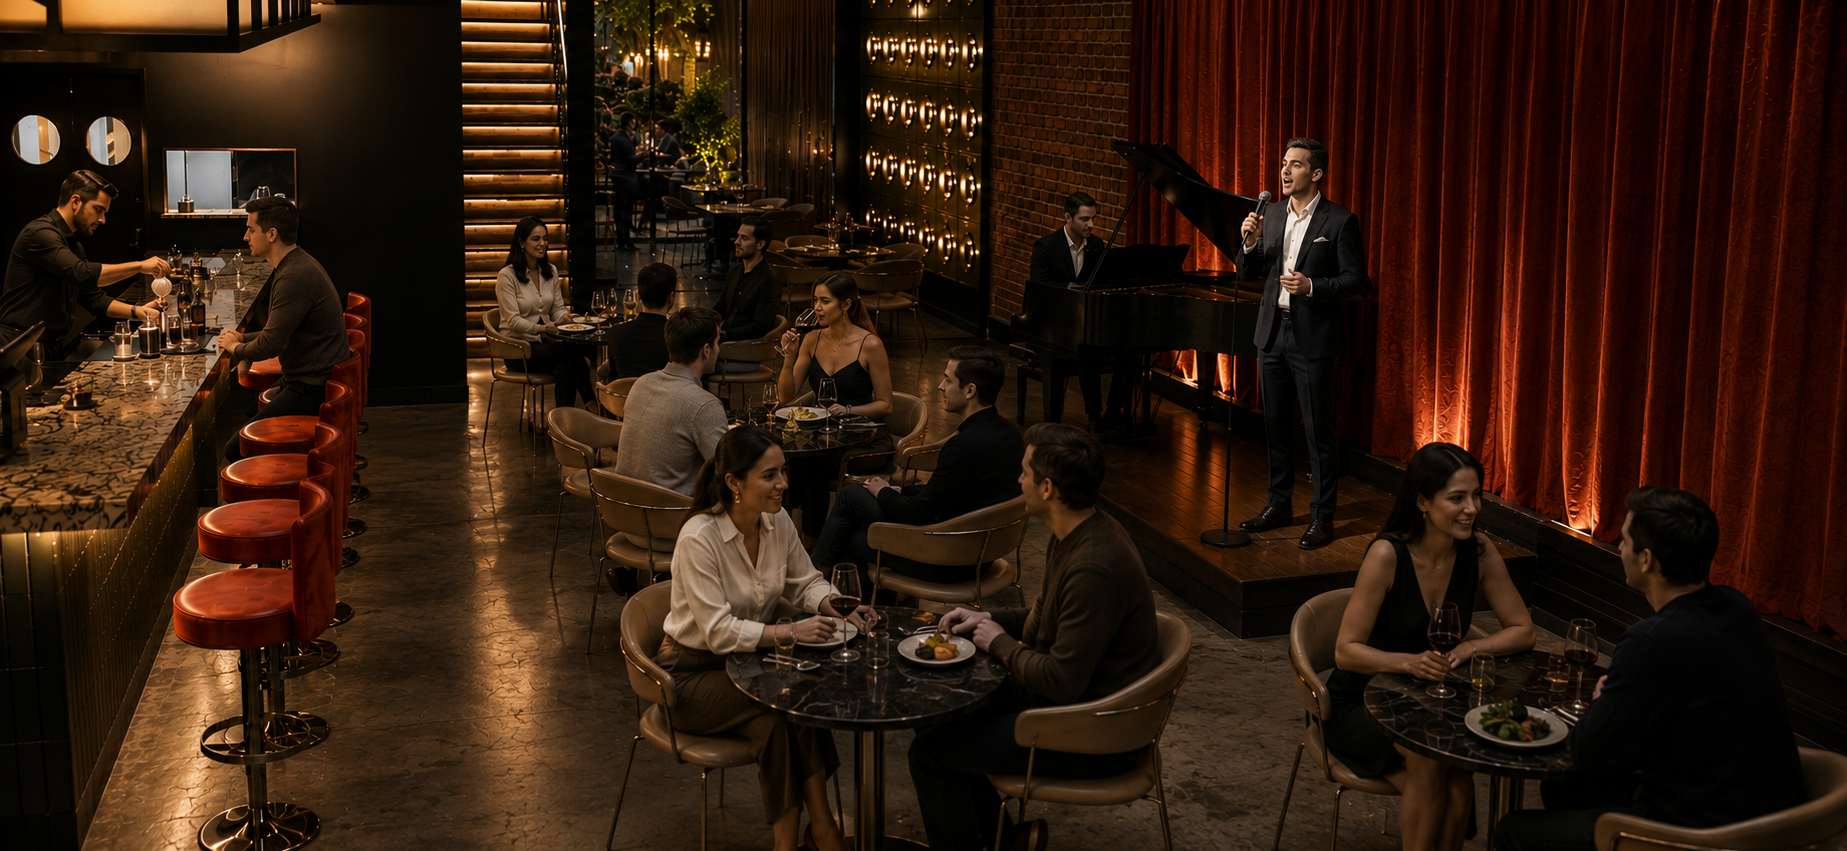
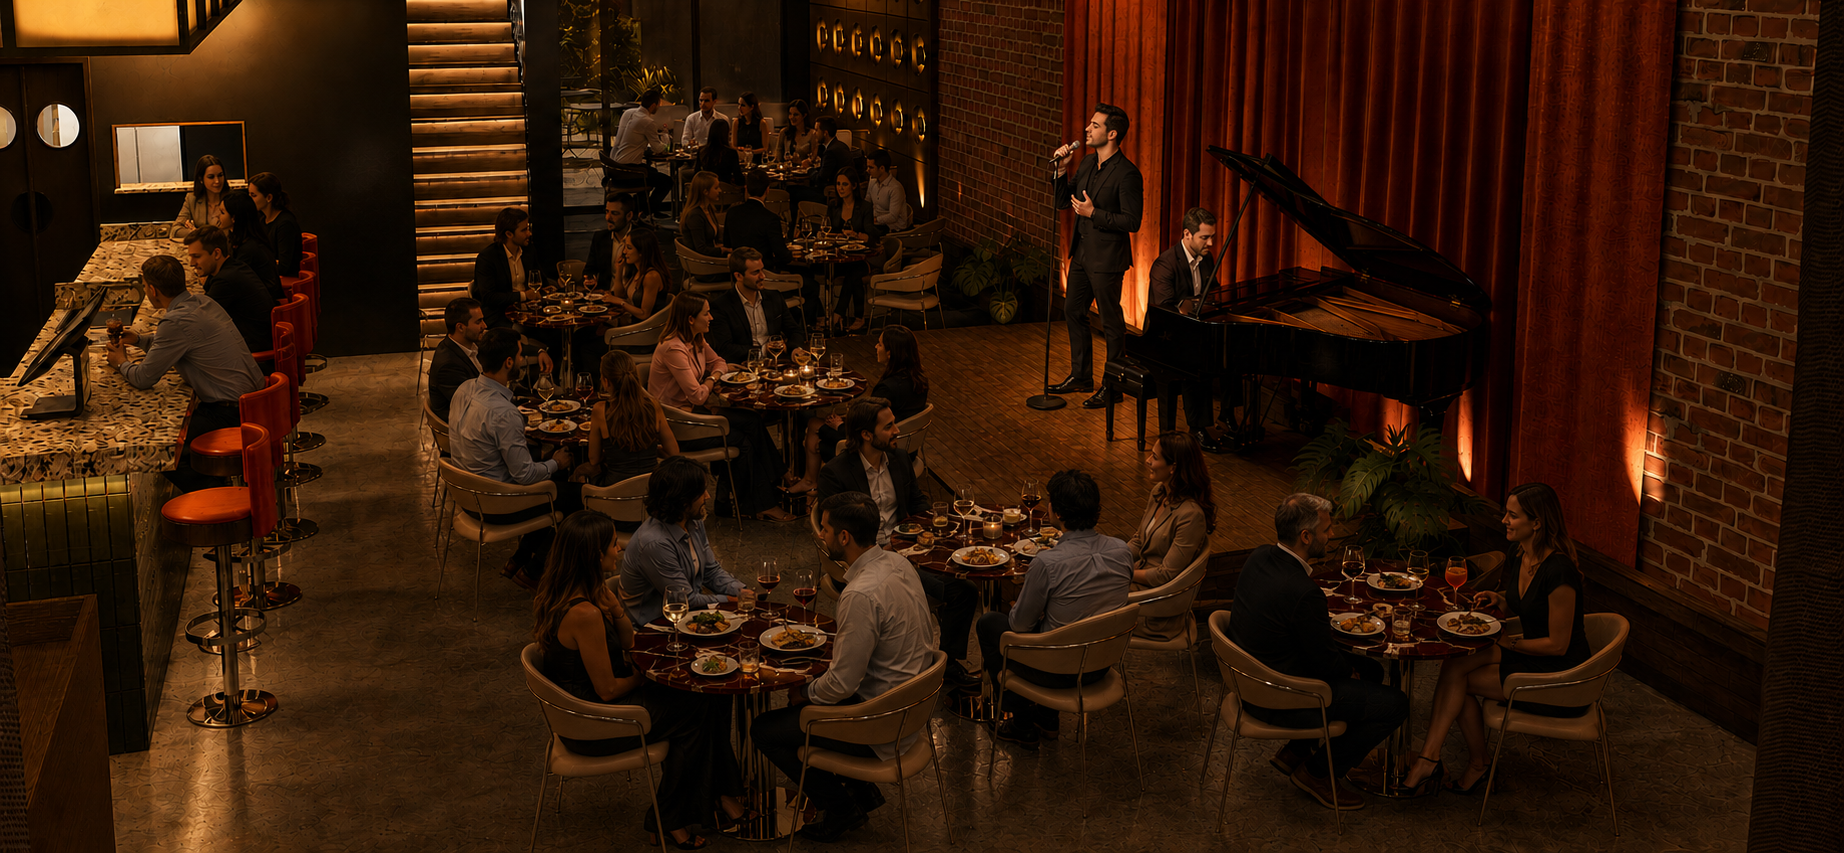
feat: update hero section background with new asset and parallax scroll logic

diff --git a/script.js b/script.js
@@ -31,7 +31,10 @@ document.addEventListener('DOMContentLoaded', () => {
         const heroBottom = heroSection.offsetTop + heroSection.offsetHeight;
         // Only apply while the hero is visible
         if (scrollY <= heroBottom) {
-            heroBgImage.style.transform = `translateY(${scrollY * 0.3}px)`;
+            // Shift the background down slightly on scroll (parallax),
+            // starting from 15% so the singer's head is never clipped
+            const offset = 15 + scrollY * 0.015;
+            heroBgImage.style.backgroundPositionY = `${offset}%`;
         }
         rafParallax = null;
     };
@@ -41,6 +44,7 @@ document.addEventListener('DOMContentLoaded', () => {
             rafParallax = requestAnimationFrame(updateParallax);
         }
     }, { passive: true });
+
 
 
     /* 2. MOBILE NAV MENU TOGGLE */

diff --git a/styles.css b/styles.css
@@ -746,16 +746,14 @@ section {
     height: 100%;
     background-image: url('assets/hero_chatgpt_latest.png?v=3');
     background-size: cover;
-    background-position: center top;
+    background-position: center 15%;
     background-repeat: no-repeat;
-    transform: scale(1.08);
-    transform-origin: center top;
 }
 
 @media (max-width: 767px) {
     .hero-bg-image {
         background-size: cover;
-        background-position: center top;
+        background-position: center 15%;
     }
 }
 
